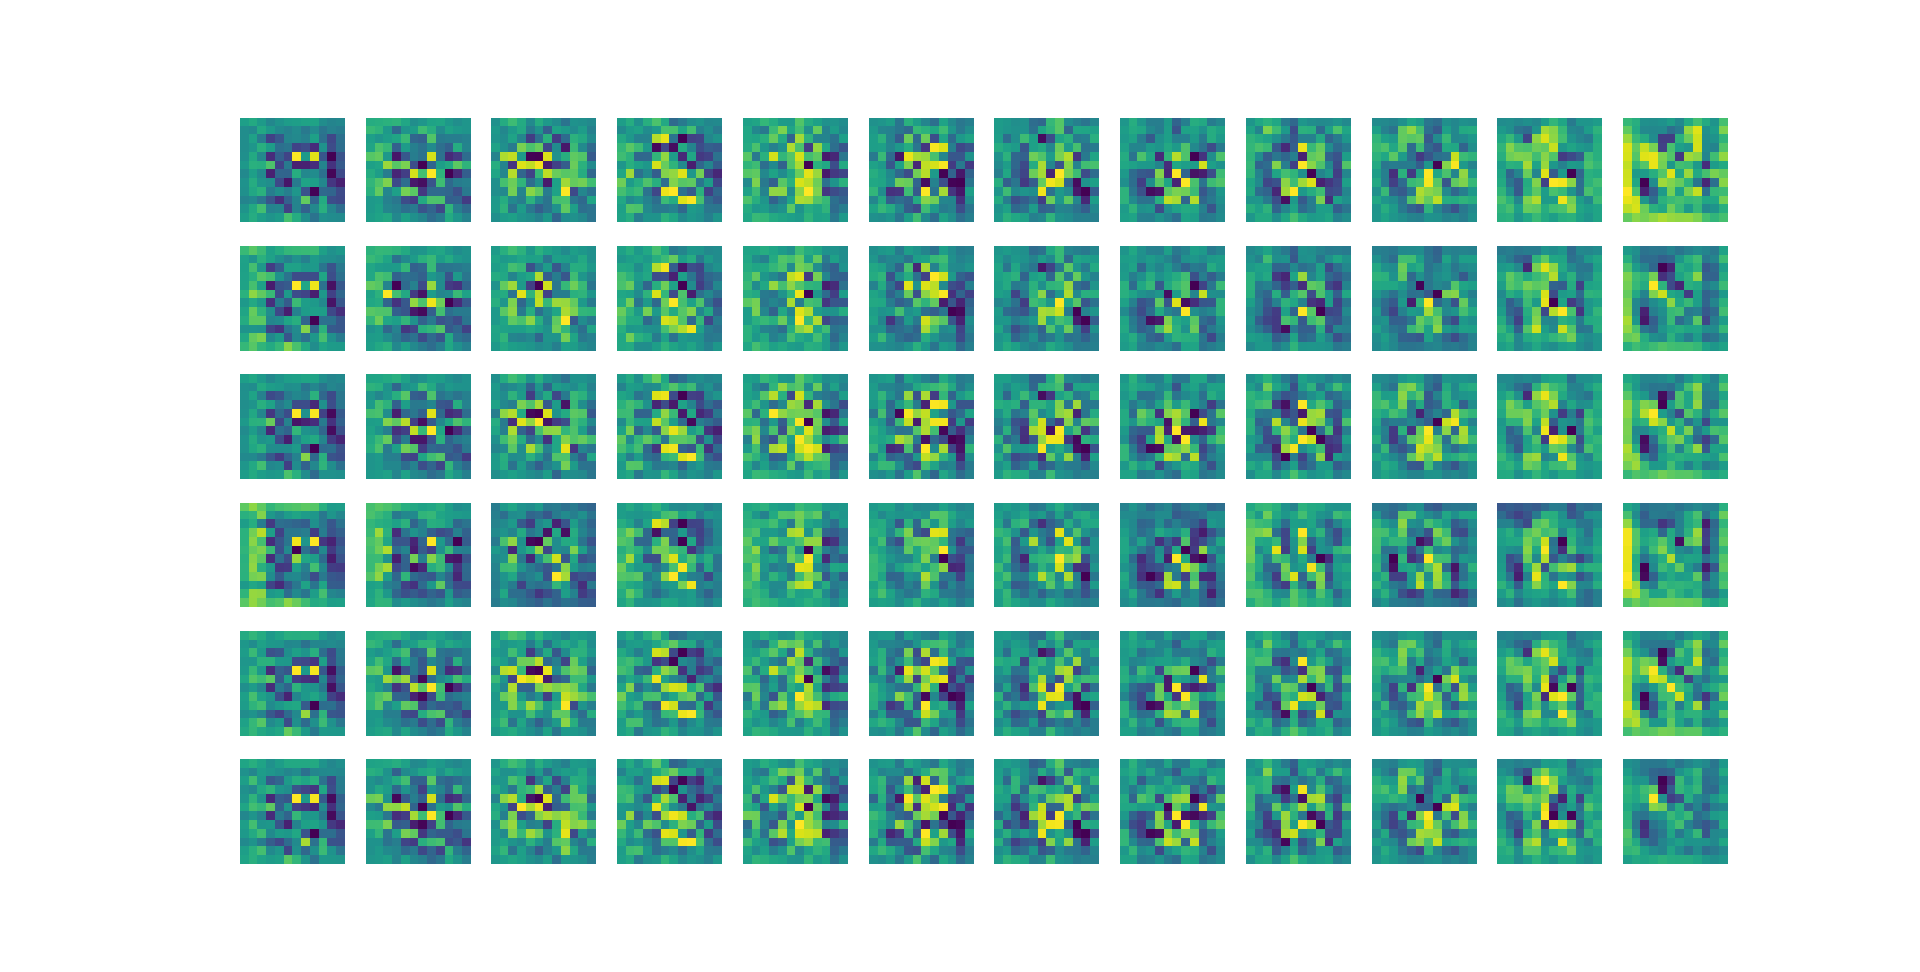
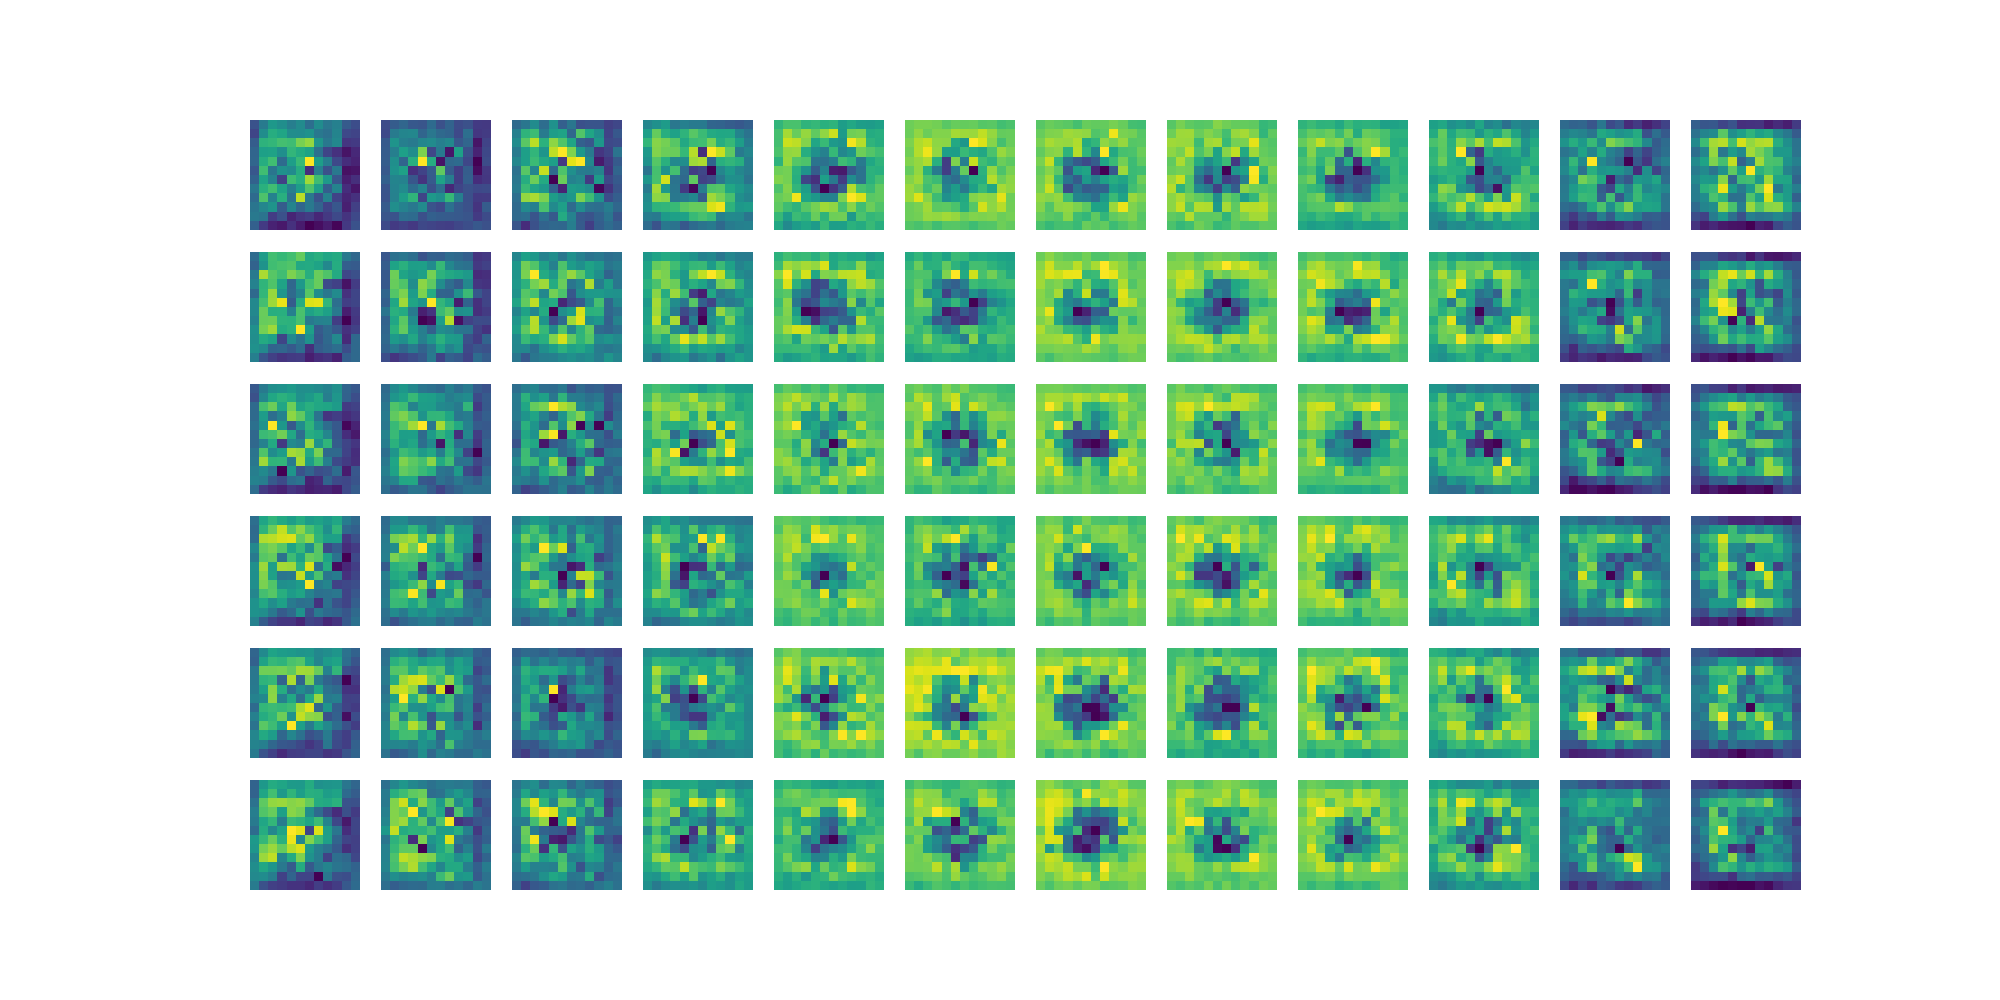
Dio santo fai meno cose da solo che poi non ci capisco un cazzo

diff --git a/EM_shower_simulator/make_models_D.py b/EM_shower_simulator/make_models_D.py
@@ -17,6 +17,7 @@ from tensorflow.keras.layers import (Input,
                                      Reshape,
                                      Conv3DTranspose,
                                      Conv3D,
+                                     MaxPooling3D,
                                      Dropout,
                                      Lambda,
                                      Concatenate,
@@ -190,53 +191,6 @@ def compute_energy(in_images):
     en_images = tf.math.reduce_sum(en_images, axis=[1,2,3])
     return en_images
 
-def auxiliary_condition(layer):
-    """Auxiliary condition for energy deposition:
-    Compute the conditioned probability output_pdf for a generator event given
-    the initial energy label. The distribition is assumed to be a Gaussian
-    centered in en_label with a std deviation of en_label/10, scalata per 0.2 e
-    sommata a 0.8. Fatto per rendere possibile il train del generatore: se fosse
-    solo la gaussiana, il discriminatore sarebbe troppo intelligente e userebbe
-    solo questa informazione per disciminare esempi veri da falsi.
-    """
-    BIAS = 0.
-    GAUS_NORM = 1.
-
-    en_label = layer[0]
-    en_label = tf.cast(en_label, tf.float32)
-    #print(f"LABELS SHAPE {en_label.shape}")
-    #print(f"Initial energy = \t{en_label}")
-    en_image = layer[1]
-    en_image = tf.cast(en_image, tf.float32)
-    #print(f"SUMMED ENERGY SHAPE {en_image.shape}")
-    #print(f"Total energy = \t{en_image}")
-
-    #output_1 = tf.math.pow((en_label-en_image)/(50) , 2) #en_label*0.4
-    #output_1 = tf.math.multiply(output_1, -0.5)
-    #output_1 = tf.math.exp(output_1)
-    #output_1 = tf.math.multiply(output_1, GAUS_NORM)
-
-    #output_2 = tf.math.pow((en_label-en_image)/(en_label*0.5) , 2) #en_label*0.4
-    #output_2 = tf.math.multiply(output_2, -0.5)
-    #output_2 = tf.math.exp(output_2)
-    #output_2 = tf.math.multiply(output_2, GAUS_NORM)
-
-    output_3 = tf.math.pow((en_label-en_image)/(2) , 2) #en_label*0.4
-    output_3 = tf.math.multiply(output_3, -0.5)
-    output_3 = tf.math.exp(output_3)
-    output_3 = tf.math.multiply(output_3, GAUS_NORM )
-
-    #aux_output = tf.math.add(output_1, output_3)
-    #aux_output = tf.math.add(aux_output,output_3)
-    #aux_output = tf.math.add(output_3, BIAS)
-
-    aux_output = tf.math.multiply(output_3, 1./(BIAS+GAUS_NORM))
-    #print(aux_output)
-    # make a "potential" well: gradients look for minimization
-    aux_output = (1 - aux_output)
-    #print(f"Auxiliary output = \t{aux_output}")
-    return aux_output
-
 def make_discriminator_model():
     """Define discriminator model:
     Input 1) Vector of images associated to the given labels;
@@ -248,7 +202,7 @@ def make_discriminator_model():
     categorizes the labels in N_CLASSES * classes.
     """
     N_FILTER = 16
-    KERNEL = (5, 5, 5)
+    KERNEL = (2, 2, 2)
 
     # padding="same" add a 0 to borders, "valid" use only available data !
     # Output of convolution = (input + 2padding - kernel) / strides + 1 !
@@ -269,6 +223,7 @@ def make_discriminator_model():
     discr = Conv3D(N_FILTER, KERNEL, use_bias=False)(in_image)
     logger.info(discr.get_shape())
     discr = LeakyReLU()(discr)
+    discr = MaxPooling3D(pool_size = KERNEL, padding ="same")(discr)
     discr = Dropout(0.3)(discr)
 
     discr = Conv3D(N_FILTER, KERNEL, padding="same", use_bias=False)(discr)
@@ -276,7 +231,7 @@ def make_discriminator_model():
     discr = LeakyReLU()(discr)
     discr = Dropout(0.3)(discr)
 
-    # minibatch = Lambda(minibatch_stddev_layer, name="minibatch")(discr)
+    minibatch = Lambda(minibatch_stddev_layer, name="minibatch")(discr)
     # logger.info(f"Minibatch shape: {minibatch.get_shape()}")
 
     discr = Conv3D(2*N_FILTER, KERNEL, padding="same", use_bias=False)(discr)
@@ -292,12 +247,6 @@ def make_discriminator_model():
     output_en = Dense(1, activation="relu", name="energy_label")(discr_en)
 
     #total_energy = Lambda(compute_energy, name="total_energy")(in_image)
-
-    #aux_output = Lambda(auxiliary_condition, name="aux_condition")([en_label,total_energy])
-
-    #output = Concatenate()([output_conv, aux_output])
-
-    #output = Dense(1, activation="sigmoid", name="final_decision")(output)
 
     discr_id = Dense(N_FILTER, activation="relu")(discr)
     discr_id = Dense(N_FILTER, activation="sigmoid")(discr_id)
